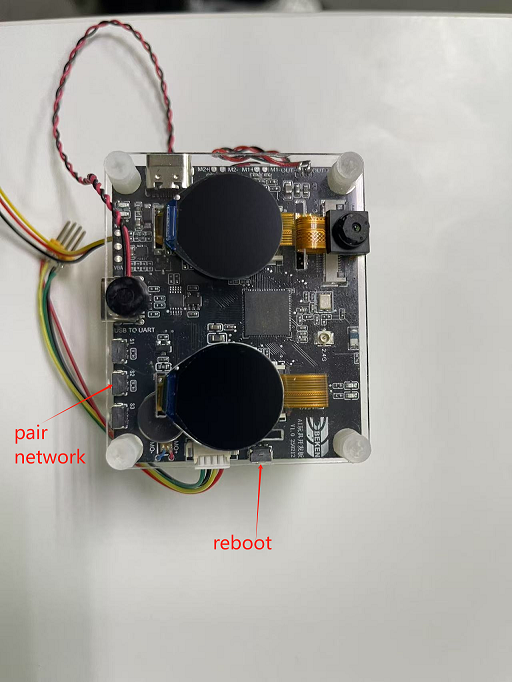
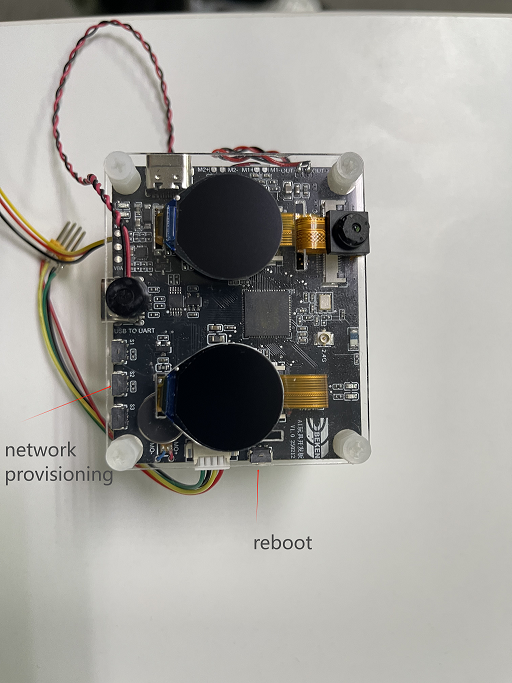
[CI] [53495]  <wifi> <fix> add network provisioning en docs

diff --git a/docs/bk7258/en/projects/beken_genie/index.rst b/docs/bk7258/en/projects/beken_genie/index.rst
@@ -113,17 +113,15 @@ The design includes reference solutions and demos for common peripherals, such a
     * Each frame of the image is sent to Agora's servers via the Agora SDK.
     * The server then transmits the image to the AI Agent large model for recognition.
 
-2.2 Function diagram
-,,,,,,,,,,,,,,,,,,,,,,,,,,,,,,,,,
+2.2 Network Provisioning and Communication
+,,,,,,,,,,,,,,,,,,,,,,,,,,,,,,,,,,,,,,,,,,
 
-    As shown in the figure below, the interfaces of the multimedia used in the scheme are all defined in media_app.h and aud_intf.h.
-
-.. figure:: ../../../_static/agora_wanson_ai_sw_relationship_diag.png
+.. figure:: ../../../_static/demo_flow_sequence_en.png
     :align: center
-    :alt: relationship diagram Overview
+    :alt: State Machine Overview
     :figclass: align-center
 
-    Figure 3. module relationship diagram
+    Figure 3. Operation Flow Sequence
 
 
 2.3 AI Work state machine
@@ -158,6 +156,91 @@ The design includes reference solutions and demos for common peripherals, such a
     |CONFIG_AGORA_IOT_SDK                    |   CPU0         |   bool        |        y       |
     +----------------------------------------+----------------+---------------+----------------+
 
+    To enable Network Provisioning and start agent, the following configurations need to be enabled on cpu0:
+
+    +----------------------------------------+----------------+---------------+----------------+
+    |Kconfig                                 |   CPU          |   Format      |      Value     |
+    +----------------------------------------+----------------+---------------+----------------+
+    |CONFIG_NETWORK_AUTO_RECONNECT           |   CPU0         |   bool        |        y       |
+    +----------------------------------------+----------------+---------------+----------------+
+
+
+2.5 Critical Code Explanation
+,,,,,,,,,,,,,,,,,,,,,,,,,,,,,,,,,
+
+2.5.1 About Network Provisioning
++++++++++++++++++++++++++++++++++
+
+ The Wi-Fi provisioning-related code is mainly located in bk_genie_smart_config.c and boarding_core.c. Customers can
+ choose to replace the following functions with their own implementation, while the rest can follow beken solution.
+
+1. bk_genie_smart_config_init: for the initialization of Network Provisioning and auto reconnect.
+
+.. code::
+
+    int bk_genie_smart_config_init(void)
+    {
+        int flag;
+
+        event_handler_init();
+        flag = demo_network_auto_reconnect();   //judge whether to reconnect
+        if (flag != 0x71l && flag != 0x73l
+    #if CONFIG_NET_PAN
+            && flag != 0x74l
+    #endif
+        ) {
+            bk_genie_prepare_for_smart_config();    //no need to reconnect, begin for Network Provisioning
+        }
+        return 0;
+    }
+
+
+2. bk_genie_prepare_for_smart_config: begin for Network Provisioning, customers may need to adapter their own solution
+
+.. code::
+
+    void bk_genie_prepare_for_smart_config(void)
+    {
+        smart_config_running = true;
+        app_event_send_msg(APP_EVT_PAIRING_NETWORK, 0);
+        network_pair_stop_timeout_check();
+        agora_stop();
+        demo_erase_network_auto_reconnect_info();       //erase AP info
+        bk_genie_erase_agent_info();                    //erase agent info
+        wifi_boarding_adv_start();
+        network_pair_start_timeout_check();
+    }
+
+
+3. bk_genie_message_handle: switch agent info with Smart phone, customers may need to adapter their own solution
+
+.. code::
+
+    static void bk_genie_message_handle(void)
+    {
+            ……
+        case DBEVT_START_AGORA_AGENT_START:
+        {
+            ……
+            //upload uid to beken server, to generate channel_name
+            ……
+        }
+        break;
+        case DBEVT_START_AGORA_AGENT_RSP:
+        {
+            ……
+            //receive channel_name
+            ……
+        }
+        break;
+            ……
+    }
+
+4. bk_genie_sconf_netif_event_cb: wakeup agent after wifi connected, save network and agent info
+
+5. bk_genie_erase_agent_info, bk_genie_save_agent_info, bk_genie_get_agent_info, bk_genie_wakeup_agent: all for beken agent solution,
+customers may need to adapter their own solution
+
 
 3. Demonstration instructions
 ---------------------------------
@@ -188,14 +271,145 @@ The design includes reference solutions and demos for common peripherals, such a
     - 3. Modify the file name passed to the function ``AVI_open_input_file("/genie_eye.avi", 1)`` in the file ``<bk_aidk source code path>/project/beken_genie/main/av_play/avi_play.c``.
 
 3.3 APP Registration and Download
+,,,,,,,,,,,,,,,,,,,,,,,,,,,,,,,,,
+
+    APP download: https://docs.bekencorp.com/arminodoc/bk_app/app/zh_CN/v2.0.1/app_download/index.html
+
+    Registration: use email
+
 
 3.4 Firmware Burning and Resource File Burning
+,,,,,,,,,,,,,,,,,,,,,,,,,,,,,,,,,,,,,,,,,,,,,,
 
 	- 1. Store the avi video file to be played in the SD NAND. For specific usage of SD NAND, refer to Nand Disk Usage Notes <../../api-reference/nand_disk_note.html>_.
 	- 2. Store the file <bk_aidk source code path>/project/beken_genie/main/resource/genie_eye.avi from the SDK into the SD NAND.
 	- 3. Burn the compiled all-app.bin file and power on to execute.
 
 3.5 Operation Steps
+,,,,,,,,,,,,,,,,,,,,,,,,,,,,,,,,,
+
+3.5.1 Beken App
++++++++++++++++++++++++++++++++++
+
+    a)operate beken app as follow pictures:
+
+    .. figure:: ../../../_static/add_ai_device_1.png
+        :scale: 30%
+
+    .. figure:: ../../../_static/add_ai_device_2.png
+        :scale: 30%
+
+    .. figure:: ../../../_static/add_ai_device_3.png
+        :scale: 30%
+
+    .. figure:: ../../../_static/add_ai_device_4.png
+        :scale: 30%
+
+    b)long press Key 2 for 3s to enter network provisioning mode:
+
+    .. figure:: ../../../_static/add_ai_device_9.png
+        :scale: 70%
+
+    c)click the device scan by smart phone
+
+    .. figure:: ../../../_static/add_ai_device_5.png
+        :scale: 30%
+
+    .. figure:: ../../../_static/add_ai_device_6.png
+        :scale: 30%
+
+    .. figure:: ../../../_static/add_ai_device_7.png
+        :scale: 30%
+
+    d)Say the wake-up word ``hi armino`` to the onboard mic, the device will play the prompt tone ``aha`` after waking up,
+    and then you can have an AI conversation
+
+      Say the key word ``byebye armino`` to the onboard mic, the device will play the prompt tone ``byebye`` after detecting it,
+      then go to sleep and stop talking to the AI
+
+
+3.5.1 Command line
++++++++++++++++++++++++++++++++++
+
+1.Start Agora AI Agent on PC
+     - refer to `Beken AI Agent Start Document <../../thirdparty/agora/index.html#ai-agent>`_
+
+     demo as below, appid, restful_key and xxx need customers to fill in their owns.
+
+.. code::
+
+    curl --location --request POST 'https://api.agora.io/api/conversational-ai-agent/v2/projects/{appid}/join' --header 'Content-Type: application/json' --header 'Authorization: Basic {restful_key}' --data-raw '{
+        "name": "channel_name",
+        "properties": {
+            "channel": "channel_name",
+            "token": "xxx",
+            "agent_rtc_uid": "1234",
+            "remote_rtc_uids": [
+                "123"
+            ],
+            "advanced_features": {
+                "enable_bhvs": true,
+                "enable_aivad": false
+            },
+            "parameters": {
+                "enable_dump": true,
+                "output_audio_codec": "G722"
+            },
+            "enable_string_uid": false,
+            "idle_timeout": 0,
+            "llm": {
+                "url": "xxx",
+                "api_key": "xxx",
+                "system_messages": [
+                {
+                    "role": "system",
+                    "content": "You are a helpful chatbot."
+                }
+                ],
+                "max_history": 10,
+                "greeting_message": "Merry Christmas, how can I assist you today?",
+                "failure_message": "I am sorry!",
+                "params": {
+                    "model": "gpt-4o-mini"
+                }
+            },
+            "tts": {
+                "vendor": "bytedance",
+                "params": {
+                    "token": "xxx",
+                    "app_id": "xxx",
+                    "cluster": "volcano_tts",
+                    "speed_ratio": 1.0,
+                    "volume_ratio": 10.0,
+                    "pitch_ratio": 1.0,
+                    "emotion": "happy"
+                }
+            },
+            "asr": {
+                "language": "zh-CN",
+                "vendor": "tencent"
+            }
+        }
+    }'
+
+
+2.connect to AP on the device
+     - enter ``sta test xxxxxx`` to connect a 2.4GHz AP
+
+3.device(RTC) join the channel
+     - enter ``agora_test start appid 0 channel_name`` to join the channel named "channel_name", addid need to fill by costomers
+
+        refer to `Beken Agora Registration Document <../../thirdparty/agora/index.html#id1>`_
+
+4.wakeup and communicate
+     - Say the wake-up word ``hi armino`` to the onboard mic, the device will play the prompt tone ``aha`` after waking up, and then you can have an AI conversation
+
+5.stop the communication
+     - Say the key word ``byebye armino`` to the onboard mic, the device will play the prompt tone ``byebye`` after detecting it, then go to sleep and stop talking to the AI
+
+6.leave the channel and stop audio
+     - enter ``agora_test stop``
+
 
 
 4. Debugging Commands
